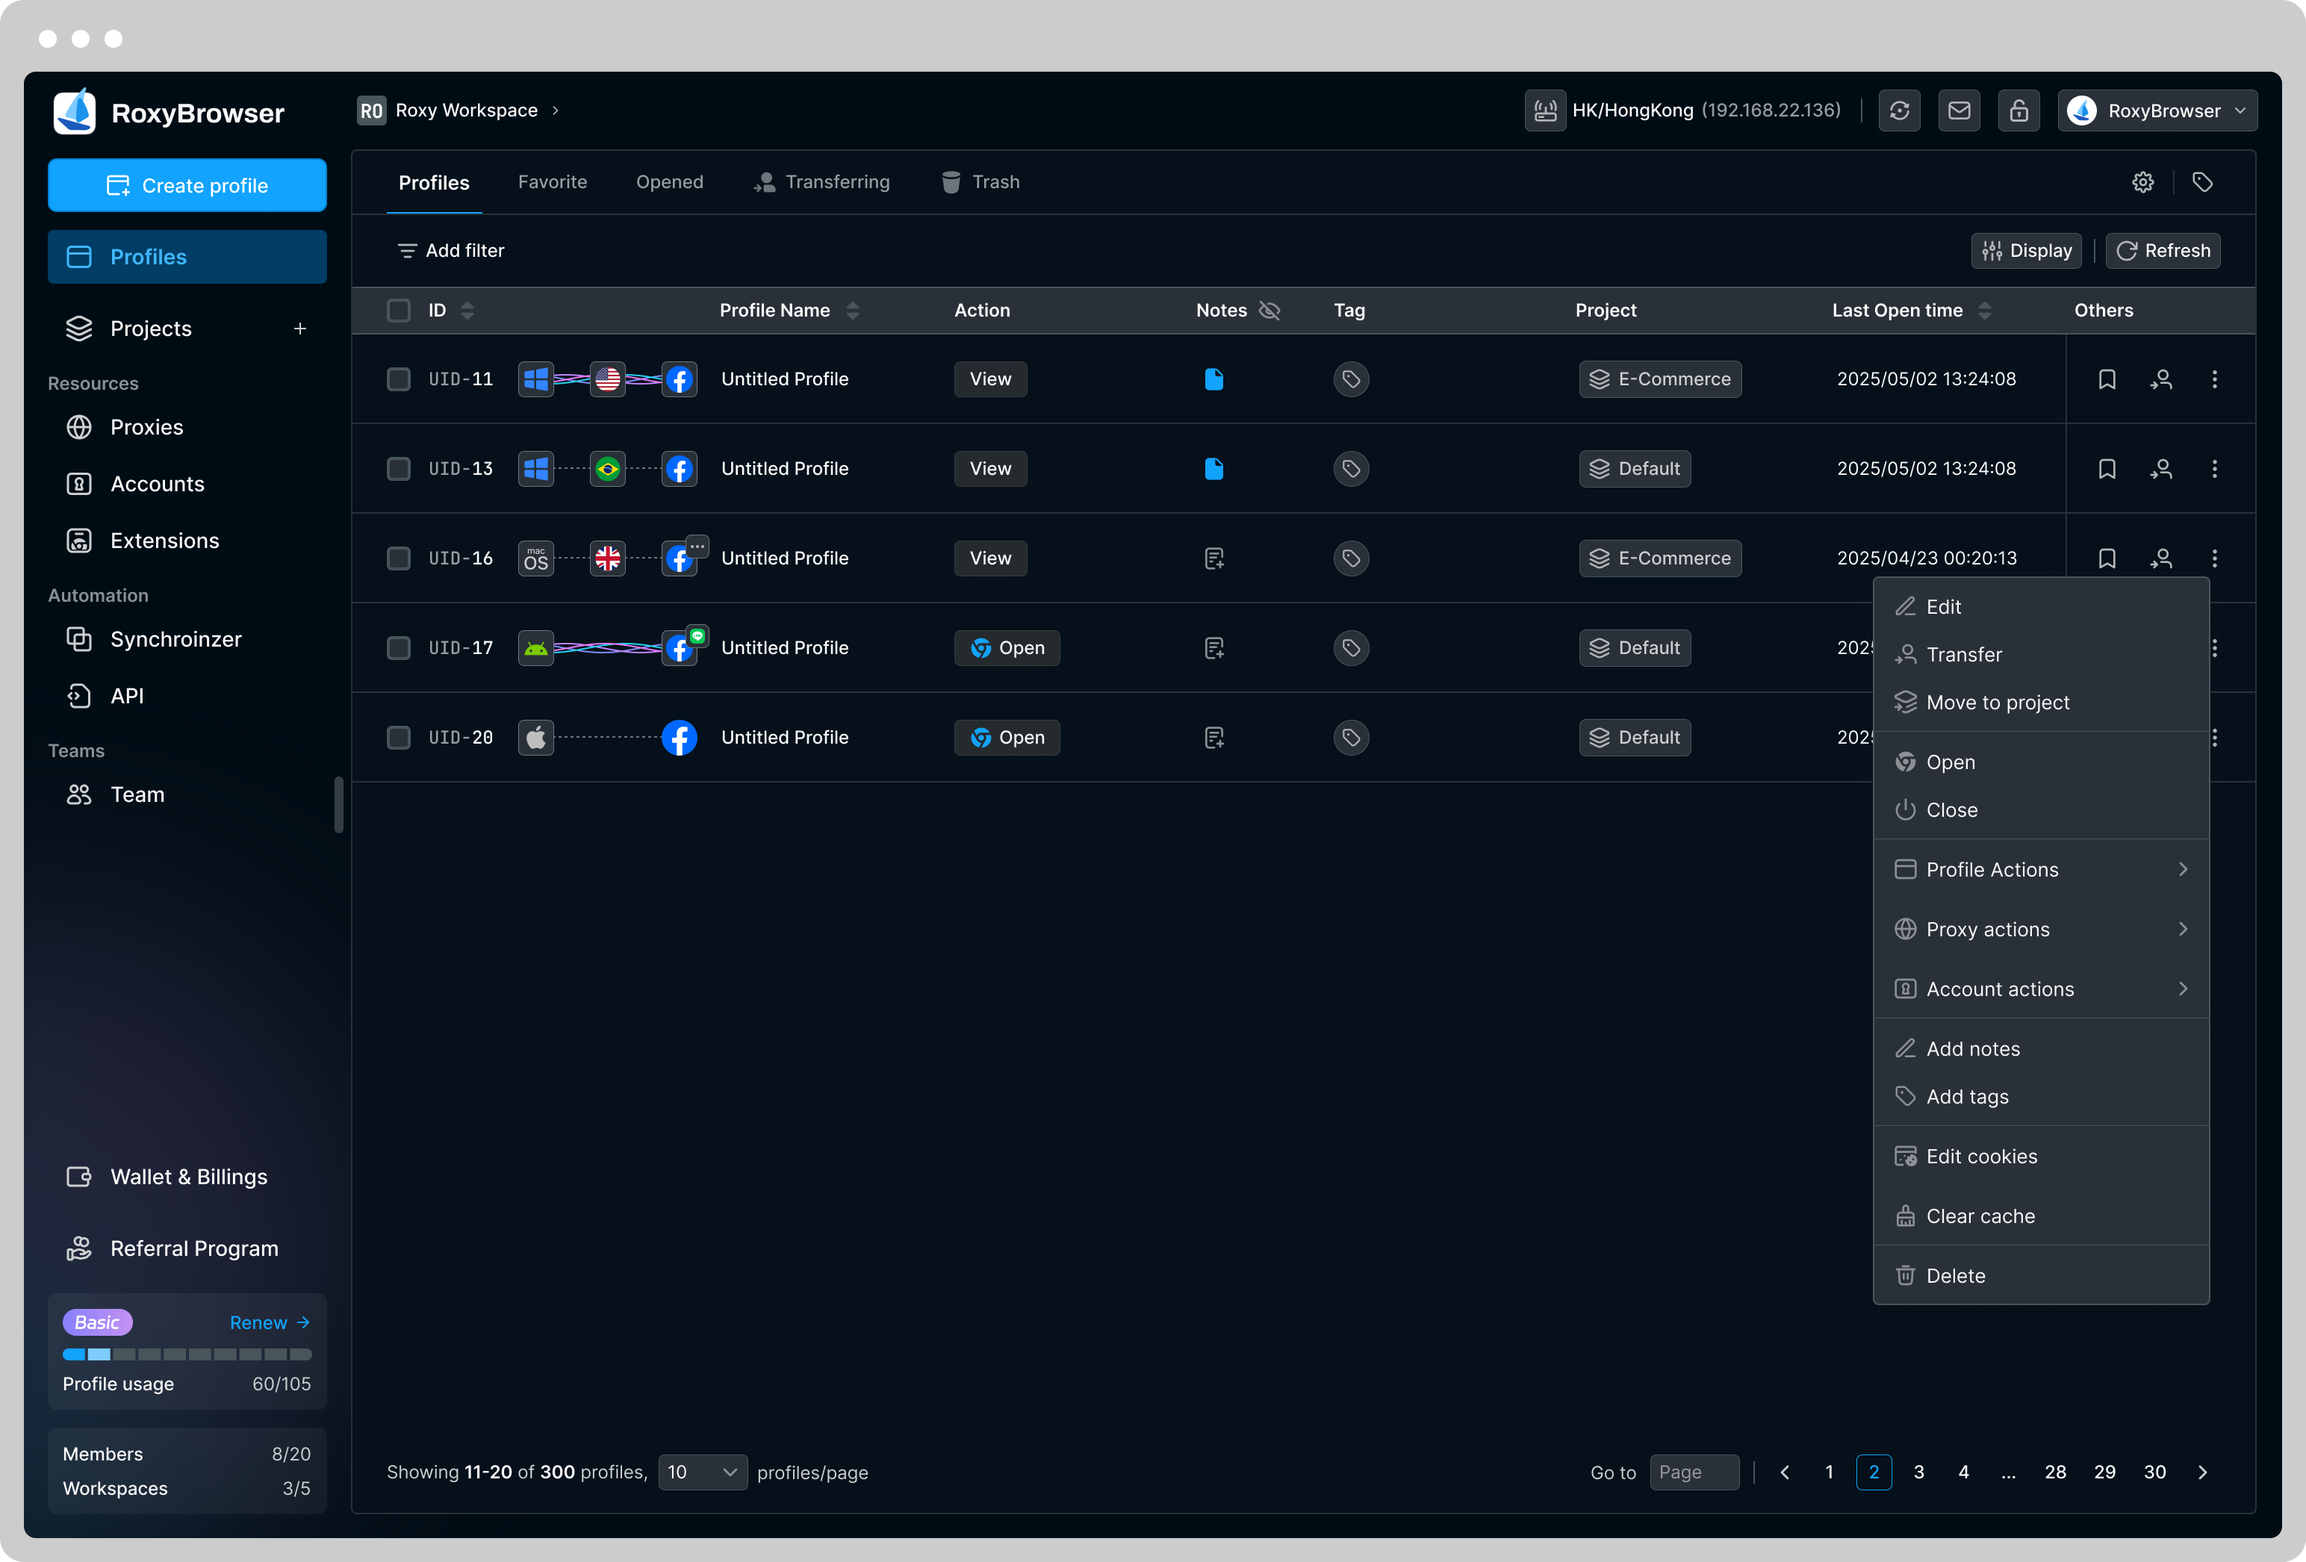
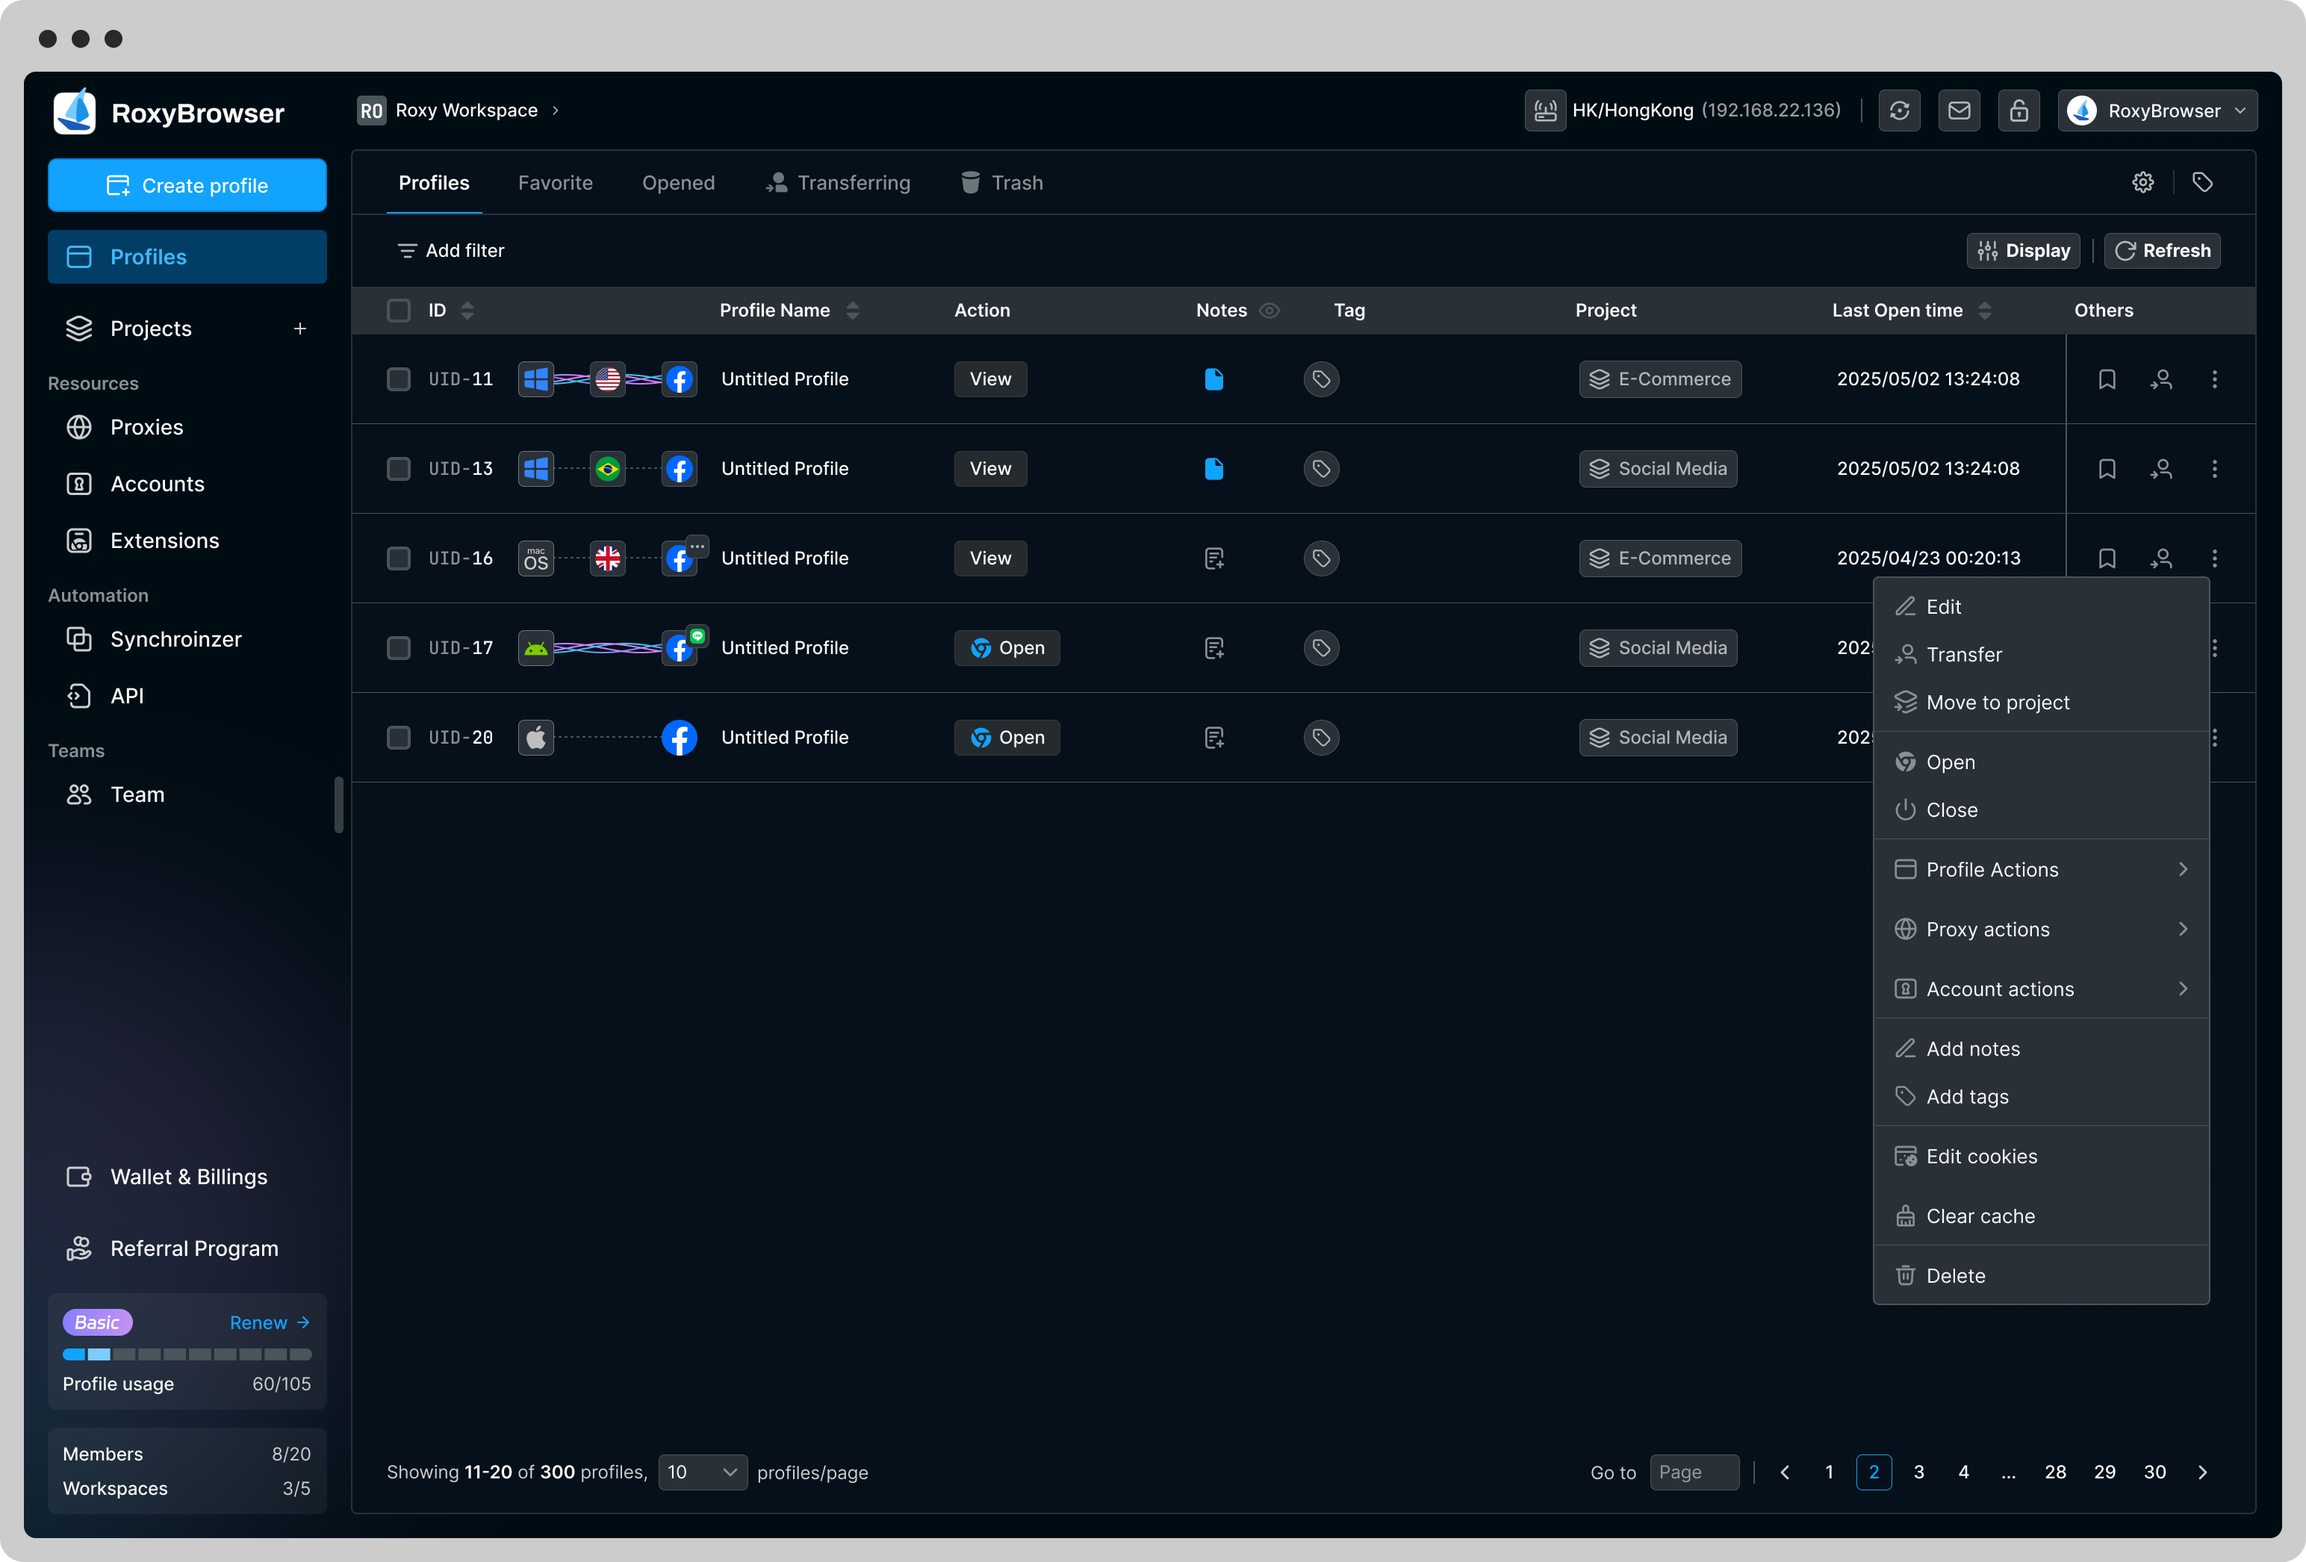
修复2FA流程状态没有重置的bug，更新静态资源 (#575)

diff --git a/apps/web/src/layout/components/header/profile/components/auth-2fa/setps-2fa.vue b/apps/web/src/layout/components/header/profile/components/auth-2fa/setps-2fa.vue
@@ -7,11 +7,7 @@ import { $t } from '/@/locales'
 import QRCode2FA from './qrcode-2fa.vue'
 import RecoveryCodes from './recovery-codes.vue'
 import RecoveryEmail from './recovery-email.vue'
-
-enum RecoveryType {
-  Code = 'code',
-  Email = 'email',
-}
+import { RecoveryType } from '/@/enums/account'
 
 const props = withDefaults(defineProps<{
   tempToken?: string
@@ -54,8 +50,6 @@ const qrcode2FA = reactive({
   code: '',
 })
 
-const close2faCode = ref('')
-
 const recoveryType = ref<RecoveryType>();
 
 const recoveryCodes = ref<string[]>([])
@@ -93,7 +87,7 @@ const handleNext = async () => {
     onlyErrorToast(res.code, res.msg);
     if (res.code === 0) {
       props.onSuccess?.(recoveryType.value as RecoveryType);
-      visible.value = false;
+      resetStatus();
     }
   }
 
@@ -115,15 +109,18 @@ const chooseRecovery = async (type: RecoveryType) => {
   }
 }
 
-const hideDialog = () => {
-  props.onCancel?.();
+const resetStatus = () => {
   visible.value = false;
   currentSetp.value = defaultSetp;
   qrcode2FA.qrcode = '';
   qrcode2FA.secret = '';
   qrcode2FA.code = '';
-  close2faCode.value = ''
   recoveryType.value = undefined
+}
+
+const hideDialog = () => {
+  props.onCancel?.();
+  resetStatus();
 }
 
 const sendRecoveryEmailCodeRequest = async () => {
@@ -154,7 +151,8 @@ watchEffect(async () => {
 </script>
 
 <template>
-  <Dialog class="w-480px" v-model:visible="visible" :header="$t('添加新的双重验证方法')" modal :draggable="false" :closable="closable">
+  <Dialog class="w-480px" v-model:visible="visible" :header="$t('添加新的双重验证方法')" modal :draggable="false"
+    :closable="closable">
     <RxSteps class="px-24px mb-24px" v-model="currentSetp" :steps="steps" ref="stepsRef" />
 
     <!-- 步骤一 -->
@@ -222,8 +220,10 @@ watchEffect(async () => {
 
     <template #footer>
       <div class="w-full flex flex-col gap-12px">
-        <RxButton v-if="currentSetp !== '2'" :label="currentSetp === '3' ? $t('确认') : $t('下一步')" severity="primary" class="w-full" @click="handleNext" />
-        <RxButton v-if="currentSetp === '3'" :label="$t('返回上一步')" severity="secondary" class="w-full" @click="prev" outlined />
+        <RxButton v-if="currentSetp !== '2'" :label="currentSetp === '3' ? $t('确认') : $t('下一步')" severity="primary"
+          class="w-full" @click="handleNext" />
+        <RxButton v-if="currentSetp === '3'" :label="$t('返回上一步')" severity="secondary" class="w-full" @click="prev"
+          outlined />
       </div>
     </template>
 

diff --git a/apps/web/src/layout/components/header/profile/components/settings-popup/useAuthentication.tsx b/apps/web/src/layout/components/header/profile/components/settings-popup/useAuthentication.tsx
@@ -12,6 +12,7 @@ import { useDialog } from "/@/hooks/useDialog";
 import { getResetPasswordFormSchemas, getSettingPasswordFormSchemas } from "/@/layout/components/header/profile/components/schemas";
 import { h, withDirectives, type ObjectDirective } from 'vue'
 import type { Items, SettingsModule, } from "/@/layout/components/header/profile/type";
+import { RecoveryType } from "/@/enums/account";
 
 // TODO 解决 options.instance 为 null 的问题，为 null 会报错
 const MyTooltip: ObjectDirective = {
@@ -36,10 +37,10 @@ export const useAuthentication = () => {
     let enabledDefault = res.data.validatorIsBind === 1;
     enabled.value = enabledDefault;
     if (res.data.recoverCode === 1) {
-      recoverType.value = "code"
+      recoverType.value = RecoveryType.Code
     }
     if (res.data.recoverEmail === 1) {
-      recoverType.value = "email"
+      recoverType.value = RecoveryType.Email
     }
 
     const items = reactive({
@@ -130,7 +131,7 @@ export const useAuthentication = () => {
             },
             {
               label: $t("恢复代码"),
-              value: recoverType.value === "code",
+              value: computed(() => recoverType.value === RecoveryType.Code),
               hide: (item: Items, items: Items[]) => !item.value || !enabled.value,
               component: ({ item, ...props }: { item: Items; props: any }) => {
                 return (
@@ -140,7 +141,7 @@ export const useAuthentication = () => {
             },
             {
               label: $t("恢复邮箱"),
-              value: recoverType.value === "email",
+              value: computed(() => recoverType.value === RecoveryType.Email),
               hide: (item: Items, items: Items[]) => !item.value || !enabled.value,
               component: ({ item, ...props }: { item: Items; props: any }) => {
                 return (
@@ -183,7 +184,7 @@ export const useAuthentication = () => {
       },
       handleOk: async (params: any) => {
         const res = await API.base.userSettingPasswordCreate({ ...params });
-        showToast(res.code, res.msg);
+        onlyErrorToast(res.code, res.msg);
         if (res.code === 0 && params.password) {
           userStore.setPassword(params.password);
           showToast(0, $t("密码设置成功"));

diff --git a/apps/web/src/layout/components/header/profile/components/auth-2fa/index.vue b/apps/web/src/layout/components/header/profile/components/auth-2fa/index.vue
@@ -62,6 +62,7 @@ const verifyClose2FACode = async () => {
   if (res.code === 0) {
     visibleClose2FA.value = false;
     modelValue.value = false;
+    close2faCode.value = '';
     props.onChange?.('close');
   }
 }
@@ -96,7 +97,7 @@ const handleSuccess = (type: 'code' | 'email') => {
     </template>
   </Dialog>
 
-  <Setps2FA v-model:visible="visible2FA" @success="handleSuccess" @cancel="hideDialog" />
+  <Setps2FA v-model:visible="visible2FA" @success="handleSuccess" :onCancel="hideDialog" />
 
   <Dialog class="w-384px" v-model:visible="visibleClose2FA" :header="$t('关闭 2FA')" modal :draggable="false">
     <Verify2FA v-model="close2faCode" />

diff --git a/apps/web/src/layout/components/header/profile/components/auth-2fa/edit-2fa.vue b/apps/web/src/layout/components/header/profile/components/auth-2fa/edit-2fa.vue
@@ -49,6 +49,9 @@ const reset2FA = async () => {
   onlyErrorToast(res.code, res.msg);
   if (res.code === 0) {
     visibleQRCode.value = false;
+    qrcode2FA.code = '';
+    qrcode2FA.qrcode = '';
+    qrcode2FA.secret = '';
   }
 }
 </script>

diff --git a/apps/web/src/enums/account.ts b/apps/web/src/enums/account.ts
@@ -2,3 +2,8 @@ export enum AccountBindType {
   Random = 1,
   MultiWindow = 2,
 }
+
+export enum RecoveryType {
+  Code = 'code',
+  Email = 'email',
+}
